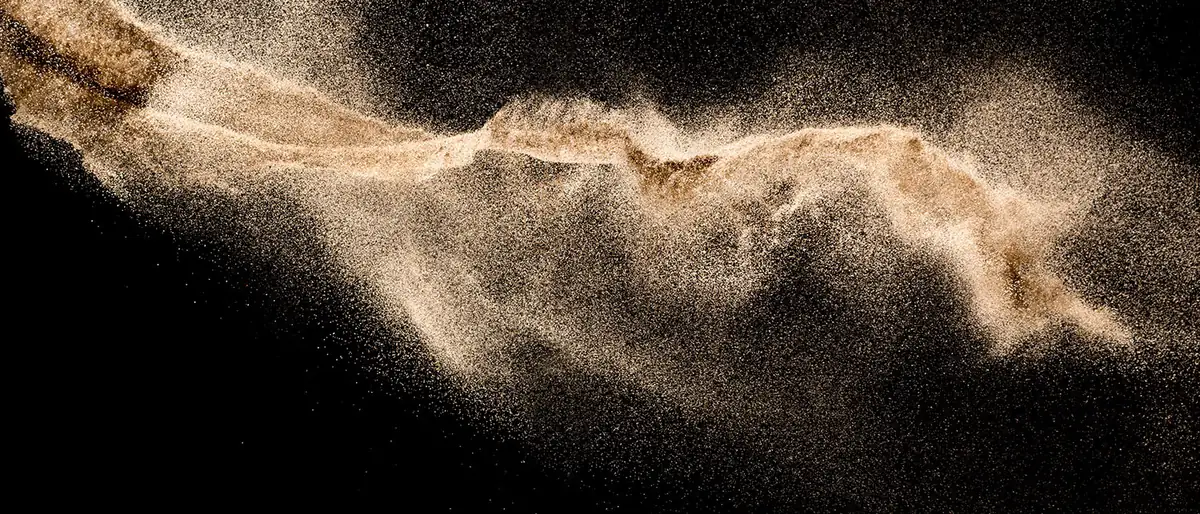
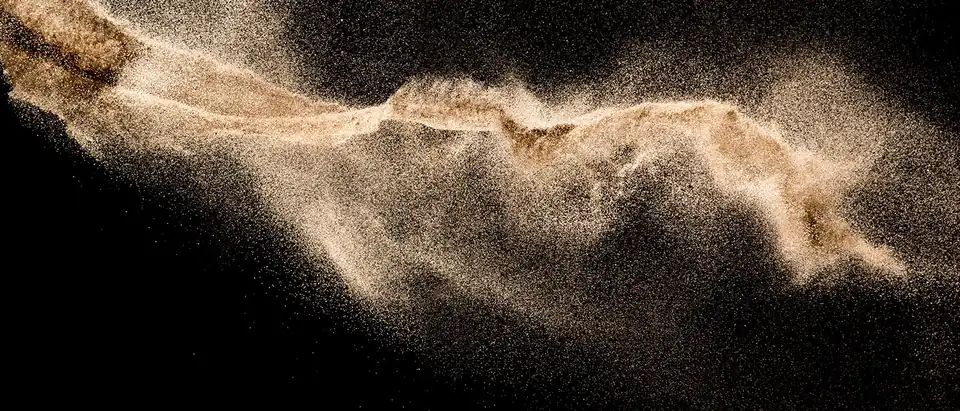
perf(apie-mus): recompress WebP 163KB->92KB, inline full about.css to fix CLS 0.122 and forced reflow

diff --git a/apie-mus/index.html b/apie-mus/index.html
@@ -55,13 +55,11 @@
     <link rel="manifest" href="/manifest.json">
     <meta name="theme-color" content="#ff6b35">
     
-    <!-- Inline critical CSS -->
-    <style>*{margin:0;padding:0;box-sizing:border-box}:root{--primary-color:#FC9D17;--secondary-color:#d97706;--text-dark:#e5e7eb;--text-light:#9ca3af;--bg-light:#1a1d23;--bg-white:#0f1115;--bg-dark:#000;--border-color:#2d3238;--shadow-md:0 4px 6px -1px rgba(0,0,0,.4);--shadow-lg:0 10px 15px -3px rgba(0,0,0,.5)}body{font-family:'Roboto',-apple-system,BlinkMacSystemFont,'Segoe UI',sans-serif;line-height:1.6;color:#e5e7eb;background:#000}.container{max-width:1200px;margin:0 auto;padding:0 20px}img{max-width:100%;height:auto;display:block}a{text-decoration:none;color:inherit}.header{background:rgba(15,17,21,.95);box-shadow:0 2px 10px rgba(0,0,0,.5);position:sticky;top:0;z-index:1000;backdrop-filter:blur(10px)}.header-content{display:flex;justify-content:space-between;align-items:center;padding:1rem 0}.logo{display:flex;align-items:center;gap:1rem}.logo-img{height:44px;width:auto;object-fit:contain}.main-nav ul{display:flex;list-style:none;gap:2rem}.main-nav a{font-weight:500;color:#e5e7eb;transition:color .3s;padding:.5rem 0;position:relative}.main-nav a:hover,.main-nav a.active{color:#FC9D17}.mobile-menu-toggle{display:none;background:none;border:none;cursor:pointer;padding:.5rem}.mobile-menu-toggle span{display:block;width:25px;height:3px;background:#e5e7eb;margin:5px 0;transition:.3s}.page-header{background:linear-gradient(135deg,#ff6b35 0%,#f7931e 100%);color:#fff;padding:30px 0;text-align:center}.page-header h1{font-size:clamp(1.3rem,5vw,2.25rem);font-weight:700;color:#fff;margin:0}.page-header p{font-size:clamp(.88rem,3vw,1.125rem);color:rgba(255,255,255,.9);margin:8px 0 0}.about-content{padding:48px 0;color:#e5e7eb}.about-intro{text-align:center;max-width:800px;margin:0 auto 4rem}.about-intro h2{font-size:2.5rem;color:var(--text-dark);margin-bottom:1.5rem}.about-intro .lead{font-size:1.2rem;line-height:1.8;color:var(--text-light)}.about-grid{display:grid;grid-template-columns:repeat(auto-fit,minmax(300px,1fr));gap:2rem;margin-top:4rem}.about-card{text-align:center;padding:2.5rem;background:var(--bg-light);border-radius:12px}.about-icon{width:70px;height:70px;margin:0 auto 1.5rem;color:var(--primary-color)}@media(max-width:768px){.mobile-menu-toggle{display:block}.main-nav{position:absolute;top:100%;left:0;right:0;background:#0f1115;box-shadow:var(--shadow-md);max-height:0;overflow:hidden;transition:max-height .3s}.main-nav.active{max-height:400px}.main-nav ul{flex-direction:column;padding:1rem 0;gap:0}.main-nav li{padding:0 20px}.main-nav a{display:block;padding:.75rem 0;border-bottom:1px solid #2d3238}}</style>
-    <!-- Non-blocking stylesheets -->
+    <!-- Inline critical CSS + full about.css to prevent layout shift -->
+    <style>*{margin:0;padding:0;box-sizing:border-box}:root{--primary-color:#FC9D17;--secondary-color:#d97706;--text-dark:#e5e7eb;--text-light:#9ca3af;--bg-light:#1a1d23;--bg-white:#0f1115;--bg-dark:#000;--border-color:#2d3238;--shadow-sm:0 1px 3px rgba(0,0,0,.3);--shadow-md:0 4px 6px -1px rgba(0,0,0,.4);--shadow-lg:0 10px 15px -3px rgba(0,0,0,.5)}body{font-family:'Roboto',-apple-system,BlinkMacSystemFont,'Segoe UI',sans-serif;line-height:1.6;color:#e5e7eb;background:#000}.container{max-width:1200px;margin:0 auto;padding:0 20px}img{max-width:100%;height:auto;display:block}a{text-decoration:none;color:inherit}.header{background:rgba(15,17,21,.95);box-shadow:0 2px 10px rgba(0,0,0,.5);position:sticky;top:0;z-index:1000;backdrop-filter:blur(10px)}.header-content{display:flex;justify-content:space-between;align-items:center;padding:1rem 0}.logo{display:flex;align-items:center;gap:1rem}.logo-img{height:44px;width:auto;object-fit:contain}.main-nav ul{display:flex;list-style:none;gap:2rem}.main-nav a{font-weight:500;color:#e5e7eb;transition:color .3s;padding:.5rem 0;position:relative}.main-nav a:hover,.main-nav a.active{color:#FC9D17}.mobile-menu-toggle{display:none;background:none;border:none;cursor:pointer;padding:.5rem}.mobile-menu-toggle span{display:block;width:25px;height:3px;background:#e5e7eb;margin:5px 0;transition:.3s}.page-header{background:linear-gradient(135deg,#ff6b35 0%,#f7931e 100%);color:#fff;padding:30px 0;text-align:center}.page-header h1{font-size:clamp(1.3rem,5vw,2.25rem);font-weight:700;color:#fff;margin:0}.page-header p{font-size:clamp(.88rem,3vw,1.125rem);color:rgba(255,255,255,.9);margin:8px 0 0}.about-content{padding:48px 0;color:#e5e7eb}.about-intro{text-align:center;max-width:800px;margin:0 auto 4rem}.about-intro h2{font-size:2.5rem;color:var(--text-dark);margin-bottom:1.5rem}.about-intro .lead{font-size:1.2rem;line-height:1.8;color:var(--text-light)}.about-grid{display:grid;grid-template-columns:repeat(auto-fit,minmax(300px,1fr));gap:2rem;margin-top:4rem}.about-card{text-align:center;padding:2.5rem;background:var(--bg-light);border-radius:12px;transition:all .3s}.about-card:hover{transform:translateY(-5px);box-shadow:var(--shadow-lg)}.about-icon{width:70px;height:70px;margin:0 auto 1.5rem;color:var(--primary-color)}.about-icon svg{width:100%;height:100%}.about-card h3{font-size:1.5rem;margin-bottom:1rem;color:var(--text-dark)}.about-card p{color:var(--text-light);line-height:1.7}.why-choose{padding:48px 0;background:var(--bg-light)}.advantages-list{max-width:900px;margin:0 auto}.advantage-item{display:flex;gap:2rem;margin-bottom:3rem;padding:2rem;background:var(--bg-white);border-radius:12px;box-shadow:var(--shadow-sm);transition:all .3s}.advantage-item:hover{box-shadow:var(--shadow-md);transform:translateX(5px)}.advantage-number{flex-shrink:0;width:60px;height:60px;display:flex;align-items:center;justify-content:center;background:var(--primary-color);color:#fff;font-size:1.5rem;font-weight:700;border-radius:10px}.advantage-content h3{font-size:1.4rem;color:var(--text-dark);margin-bottom:.75rem}.advantage-content p{color:var(--text-light);line-height:1.7}.about-card,.advantage-item{opacity:0;transform:translateY(20px);transition:opacity .55s ease,transform .55s ease}.about-card.card-visible,.advantage-item.card-visible{opacity:1;transform:translateY(0)}.about-card:nth-child(1){transition-delay:0s}.about-card:nth-child(2){transition-delay:.1s}.about-card:nth-child(3){transition-delay:.2s}.about-card:nth-child(4){transition-delay:.3s}@media(max-width:768px){.mobile-menu-toggle{display:block}.main-nav{position:absolute;top:100%;left:0;right:0;background:#0f1115;box-shadow:var(--shadow-md);max-height:0;overflow:hidden;transition:max-height .3s}.main-nav.active{max-height:400px}.main-nav ul{flex-direction:column;padding:1rem 0;gap:0}.main-nav li{padding:0 20px}.main-nav a{display:block;padding:.75rem 0;border-bottom:1px solid #2d3238}.about-content{padding:36px 0}.about-intro{margin:0 auto 2rem}.about-intro h2{font-size:1.6rem;margin-bottom:.75rem}.about-intro .lead{font-size:.95rem}.about-grid{gap:.75rem;margin-top:1.5rem}.about-card{padding:1.25rem 1rem;display:flex;align-items:center;gap:1rem;text-align:left}.about-icon{width:44px;height:44px;min-width:44px;margin:0}.about-card h3{font-size:1rem;margin-bottom:.25rem}.about-card p{font-size:.88rem;line-height:1.5}.why-choose{padding:36px 0}.advantage-item{flex-direction:row;gap:1rem;padding:1rem;margin-bottom:.75rem}.advantage-number{width:44px;height:44px;min-width:44px;font-size:1.1rem;border-radius:8px}.advantage-content h3{font-size:1rem;margin-bottom:.25rem}.advantage-content p{font-size:.88rem;line-height:1.5}}</style>
+    <!-- Non-blocking stylesheet (about.css fully inlined above) -->
     <link rel="stylesheet" href="/css/style.css" media="print" onload="this.media='all'">
     <noscript><link rel="stylesheet" href="/css/style.css"></noscript>
-    <link rel="stylesheet" href="/css/about.css" media="print" onload="this.media='all'">
-    <noscript><link rel="stylesheet" href="/css/about.css"></noscript>
     <!-- Preload LCP background image -->
     <link rel="preload" as="image" href="/assets/choosing-an-abrasive-media-Yg27WVBDpBF5yO5E.webp" type="image/webp" fetchpriority="high">
     <link rel="preconnect" href="https://fonts.googleapis.com">
